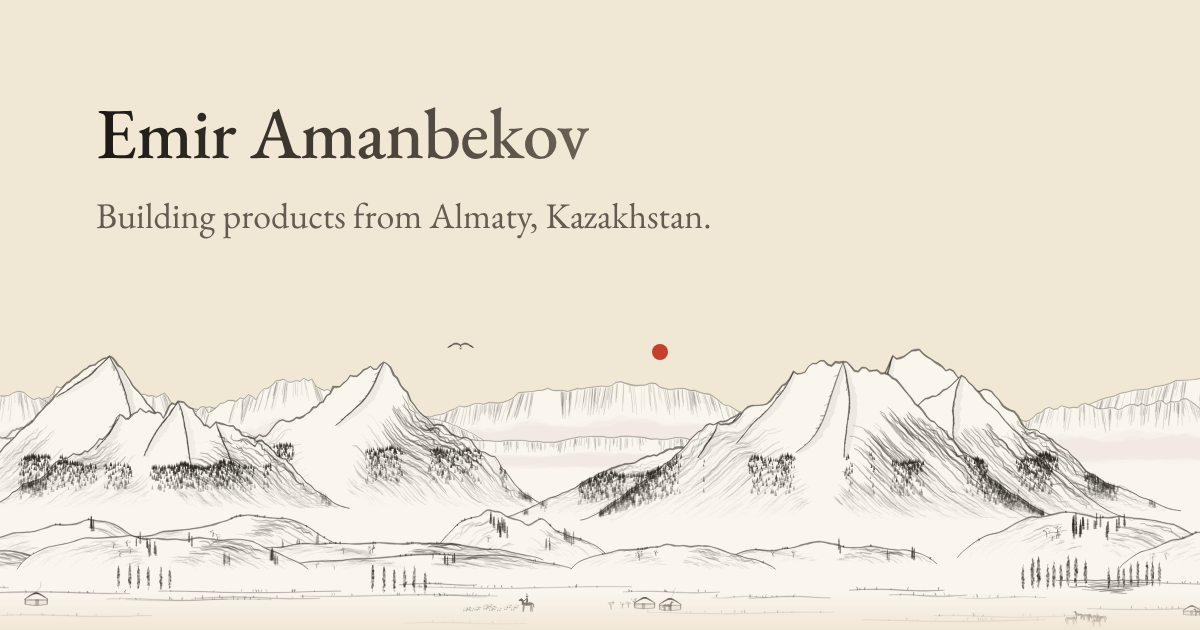
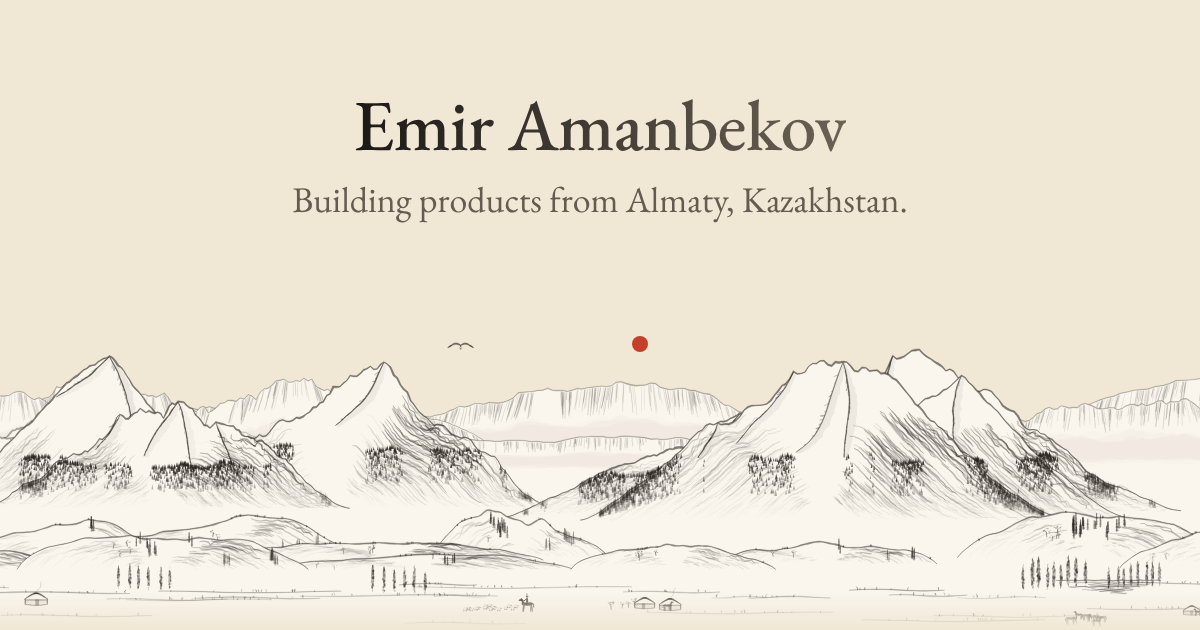
Centre a smaller hero with a Paul Graham quote, without the button
The hero no longer fills the screen: the name, the line under it and a
quote sit centred above the landscape, and the "Get in touch" button
goes. The quote is from "The Top Idea in Your Mind" and links to it.
The 404 page keeps its full-height layout and is centred to match, and
the sharing image is centred too.

Claude-Session: https://claude.ai/code/session_01VqFqnirgvXNtDYcnP3k4uP

diff --git a/site/style.css b/site/style.css
@@ -139,17 +139,16 @@ a { color: inherit; text-decoration: none; }
 .nav a:active { transform: scale(0.98); }
 .nav a[aria-current] { color: var(--strong); background: var(--surface-strong); }
 
-/* Hero */
-.hero {
-  display: flex; flex-direction: column;
-  min-height: 100dvh;
-  padding-top: 96px;
-}
+/* Hero: the name, a line and a quote, centred over the landscape */
+.hero { padding-top: 96px; }
 .hero-copy {
-  flex: 1 0 auto;
-  display: flex; flex-direction: column; justify-content: center;
-  padding-block: 32px 40px;
+  display: flex; flex-direction: column; align-items: center;
+  padding-block: 48px;
+  text-align: center;
 }
+/* The 404 page fills the screen, its land at the bottom */
+.hero-full { display: flex; flex-direction: column; min-height: 100dvh; }
+.hero-full .hero-copy { flex: 1 0 auto; justify-content: center; }
 .name {
   width: fit-content;
   padding-bottom: 4px;
@@ -162,10 +161,20 @@ a { color: inherit; text-decoration: none; }
 }
 .lead {
   max-width: 680px;
-  margin-top: 24px;
+  margin-top: 8px;
   font-size: 20px; line-height: 28px;
   color: var(--muted);
 }
+.quote { max-width: 480px; margin: 32px 0 0; }
+.quote blockquote { margin: 0; }
+.quote p { text-wrap: balance; }
+.quote figcaption {
+  margin-top: 8px;
+  font-size: 16px; line-height: 24px;
+  color: var(--faint);
+}
+.quote a { transition: color 300ms var(--ease); }
+.quote a:hover { color: var(--strong); }
 .cta { margin-top: 40px; }
 .btn {
   display: inline-flex; align-items: center; gap: 8px;
@@ -318,13 +327,13 @@ html:not(.js) .sky, .no-land .sky-stage { display: none; }
   .intro.drawn .orb-disc::after { animation: none; }
 }
 
-/* Short screens, such as 1280 × 720 laptops: keep the whole hero in view */
-@media (max-height: 820px) and (min-width: 640px) {
+/* Short screens, such as 1280 × 720 and 1536 × 864 laptops: keep the whole hero in view */
+@media (max-height: 880px) and (min-width: 640px) {
   @supports (height: 1svh) {
     :root { --land: clamp(240px, min(31vw, 45svh), 640px); }
   }
   .hero { padding-top: 80px; }
-  .hero-copy { padding-block: 24px 32px; }
+  .hero-copy { padding-block: 32px; }
   .caption { padding-block: 12px 16px; }
 }
 
@@ -343,7 +352,7 @@ html:not(.js) .sky, .no-land .sky-stage { display: none; }
     :root { --land: clamp(220px, min(96vw, 46svh), 480px); }
   }
   .hero { padding-top: 80px; }
-  .hero-copy { padding-block: 32px 48px; }
+  .hero-copy { padding-block: 32px 40px; }
   .name { font-size: 30px; line-height: 36px; }
   .lead { font-size: 18px; line-height: 28px; }
   .cta { margin-top: 32px; }
@@ -364,4 +373,5 @@ html:not(.js) .sky, .no-land .sky-stage { display: none; }
   }
   .hero { padding-top: 64px; }
   .hero-copy { padding-block: 24px 32px; }
+  .quote { margin-top: 24px; }
 }

diff --git a/site/index.html b/site/index.html
@@ -52,7 +52,6 @@
   <!-- Phosphor icons (MIT), regular weight -->
   <svg class="sprite" aria-hidden="true">
     <symbol id="i-arrow-up-right" viewBox="0 0 256 256"><path d="M200,64V168a8,8,0,0,1-16,0V83.31L69.66,197.66a8,8,0,0,1-11.32-11.32L172.69,72H88a8,8,0,0,1,0-16H192A8,8,0,0,1,200,64Z"/></symbol>
-    <symbol id="i-arrow-down" viewBox="0 0 256 256"><path d="M205.66,149.66l-72,72a8,8,0,0,1-11.32,0l-72-72a8,8,0,0,1,11.32-11.32L120,196.69V40a8,8,0,0,1,16,0V196.69l58.34-58.35a8,8,0,0,1,11.32,11.32Z"/></symbol>
     <symbol id="i-arrow-up" viewBox="0 0 256 256"><path d="M205.66,117.66a8,8,0,0,1-11.32,0L136,59.31V216a8,8,0,0,1-16,0V59.31L61.66,117.66a8,8,0,0,1-11.32-11.32l72-72a8,8,0,0,1,11.32,0l72,72A8,8,0,0,1,205.66,117.66Z"/></symbol>
     <symbol id="i-github" viewBox="0 0 256 256"><path d="M208.31,75.68A59.78,59.78,0,0,0,202.93,28,8,8,0,0,0,196,24a59.75,59.75,0,0,0-48,24H124A59.75,59.75,0,0,0,76,24a8,8,0,0,0-6.93,4,59.78,59.78,0,0,0-5.38,47.68A58.14,58.14,0,0,0,56,104v8a56.06,56.06,0,0,0,48.44,55.47A39.8,39.8,0,0,0,96,192v8H72a24,24,0,0,1-24-24A40,40,0,0,0,8,136a8,8,0,0,0,0,16,24,24,0,0,1,24,24,40,40,0,0,0,40,40H96v16a8,8,0,0,0,16,0V192a24,24,0,0,1,48,0v40a8,8,0,0,0,16,0V192a39.8,39.8,0,0,0-8.44-24.53A56.06,56.06,0,0,0,216,112v-8A58.14,58.14,0,0,0,208.31,75.68ZM200,112a40,40,0,0,1-40,40H112a40,40,0,0,1-40-40v-8a41.74,41.74,0,0,1,6.9-22.48A8,8,0,0,0,80,73.83a43.81,43.81,0,0,1,.79-33.58,43.88,43.88,0,0,1,32.32,20.06A8,8,0,0,0,119.82,64h32.35a8,8,0,0,0,6.74-3.69,43.87,43.87,0,0,1,32.32-20.06A43.81,43.81,0,0,1,192,73.83a8.09,8.09,0,0,0,1,7.65A41.72,41.72,0,0,1,200,104Z"/></symbol>
     <symbol id="i-x" viewBox="0 0 256 256"><path d="M214.75,211.71l-62.6-98.38,61.77-67.95a8,8,0,0,0-11.84-10.76L143.24,99.34,102.75,35.71A8,8,0,0,0,96,32H48a8,8,0,0,0-6.75,12.3l62.6,98.37-61.77,68a8,8,0,1,0,11.84,10.76l58.84-64.72,40.49,63.63A8,8,0,0,0,160,224h48a8,8,0,0,0,6.75-12.29ZM164.39,208,62.57,48h29L193.43,208Z"/></symbol>
@@ -73,9 +72,12 @@
       <div class="hero-copy wrap">
         <h1 class="name" id="name">Emir Amanbekov</h1>
         <p class="lead">Building products from Almaty, Kazakhstan.</p>
-        <div class="cta">
-          <a class="btn" href="#contact">Get in touch<svg class="i" aria-hidden="true"><use href="#i-arrow-down"/></svg></a>
-        </div>
+        <figure class="quote">
+          <blockquote cite="https://paulgraham.com/top.html">
+            <p>“It’s hard to do a really good job on anything you don’t think about in the shower.”</p>
+          </blockquote>
+          <figcaption>— <a href="https://paulgraham.com/top.html">Paul Graham</a></figcaption>
+        </figure>
       </div>
 
       <!-- The Tian Shan as an endless ink scroll, painted tile by tile by ink.js

diff --git a/site/404.html b/site/404.html
@@ -31,7 +31,7 @@
     </nav>
   </header>
 
-  <main class="hero" id="main">
+  <main class="hero hero-full" id="main">
     <div class="hero-copy wrap">
       <p class="label">Error 404</p>
       <h1 class="name">This page does not exist</h1>
